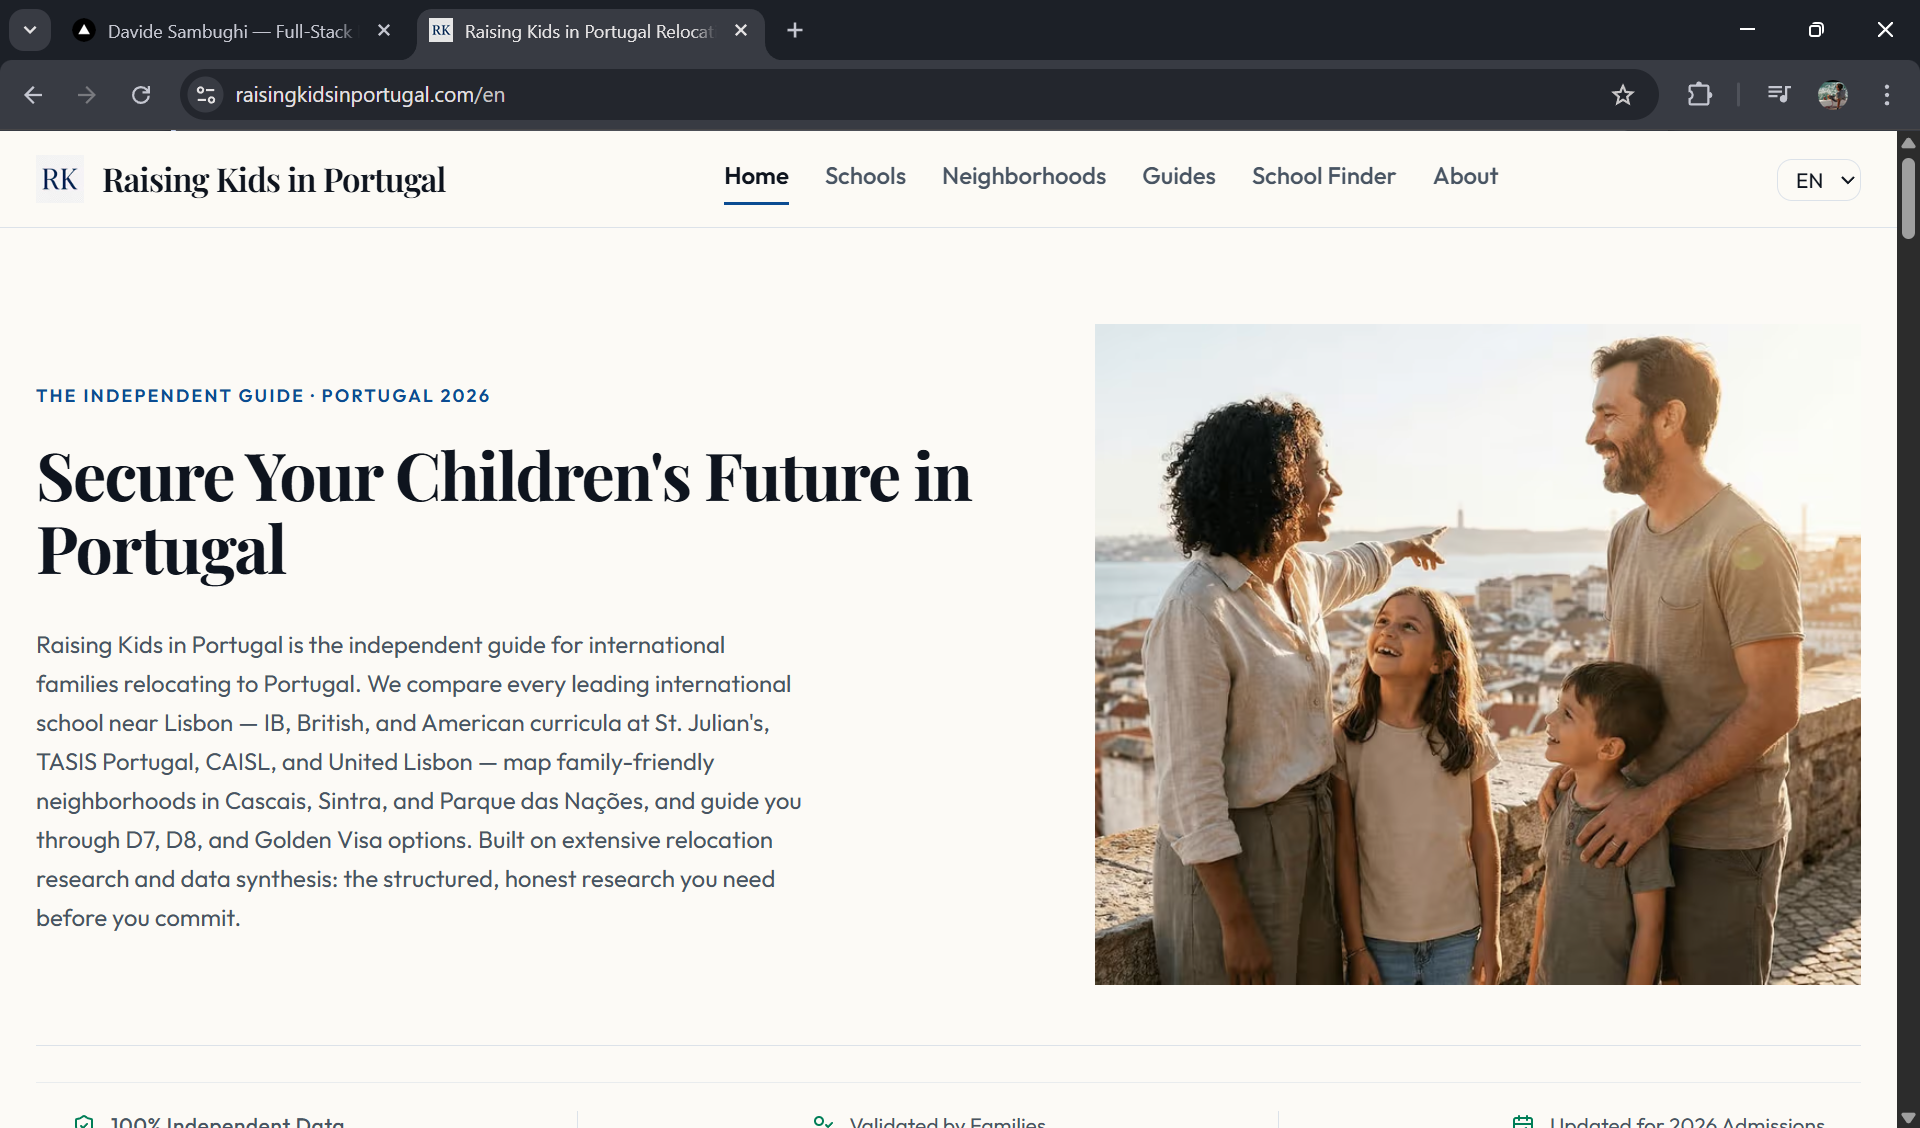
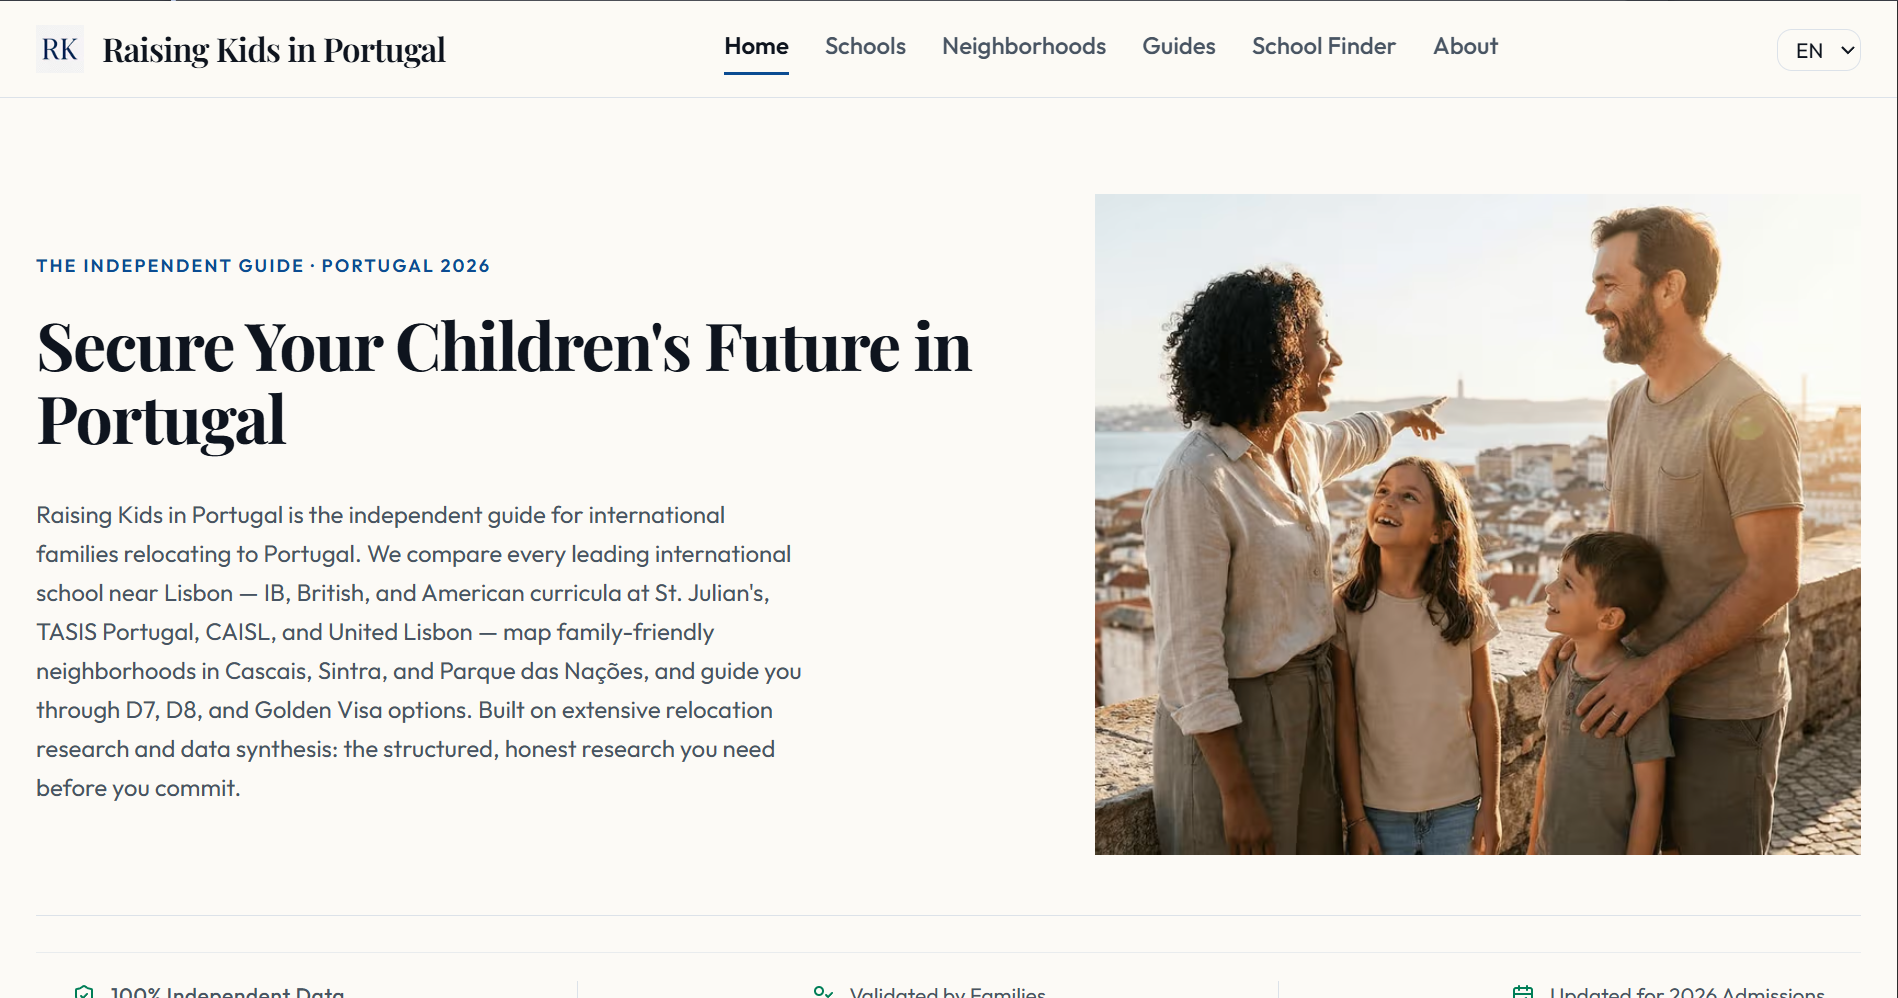
tech stack

diff --git a/src/components/sections/ProjectsSection.tsx b/src/components/sections/ProjectsSection.tsx
@@ -1,18 +1,24 @@
 'use client'
 
-import { useState } from 'react'
+import Image from 'next/image'
+import { useState, KeyboardEvent } from 'react'
 import { motion } from 'framer-motion'
-import { Building2, Globe, Zap, Lock } from 'lucide-react'
+import { Building2, Globe, Zap, Lock, ExternalLink } from 'lucide-react'
+import { buttonVariants } from '@/components/ui/button'
+import { cn } from '@/lib/utils'
 
 const PROJECTS = [
   {
     icon: Building2,
     hue: '276.97',
     title: 'NIF SaaS',
-    slug: 'nif-saas.vercel.app',
+    slug: 'raisingkidsinportugal.com',
+    image: '/images/NIFSaaS.png',
+    url: 'https://raisingkidsinportugal.com/en',
+    alt: 'Screenshot of Raising Kids in Portugal platform',
     description:
       'Automated Italian tax-code (Codice Fiscale) generation platform with multi-tenant auth, usage-based billing, and full i18n support.',
-    tags: ['Next.js 16', 'Supabase', 'Stripe', 'i18n'],
+    tags: ['Next.js 16', 'Supabase', 'i18n'],
     status: 'LIVE' as const,
   },
   {
@@ -20,6 +26,8 @@ const PROJECTS = [
     hue: '293.01',
     title: 'SEO / GEO Engine',
     slug: 'geo-engine.vercel.app',
+    image: null,
+    alt: 'SEO and GEO engine dashboard placeholder',
     description:
       'GEO-optimized content pipeline — entity linking, structured data injection, and programmatic page generation at scale.',
     tags: ['Next.js 16', 'OpenAI', 'Postgres', 'Edge Functions'],
@@ -30,6 +38,8 @@ const PROJECTS = [
     hue: '303.90',
     title: 'Vibe Microsite',
     slug: 'vibe.studio',
+    image: null,
+    alt: 'Vibe Microsite design placeholder',
     description:
       'One-page marketing microsite built with Vibe Coding™ — AI-assisted design iteration, zero-CSS workflow, deployed in under 48 h.',
     tags: ['Next.js 16', 'Framer Motion', 'Tailwind v4'],
@@ -58,20 +68,39 @@ function StatusBadge({ status }: { status: 'LIVE' | 'WIP' }) {
 export function ProjectsSection() {
   const [selectedId, setSelectedId] = useState<string | null>(null)
 
+  const handleAction = (title: string, url?: string) => {
+    if (url) {
+      window.open(url, '_blank', 'noopener,noreferrer')
+    } else {
+      setSelectedId(prev => prev === title ? null : title)
+    }
+  }
+
+  const handleKeyDown = (e: KeyboardEvent, title: string, url?: string) => {
+    if (e.key === 'Enter' || e.key === ' ') {
+      e.preventDefault()
+      handleAction(title, url)
+    }
+  }
+
   return (
     <section id="projects" className="px-12 py-10">
       <div className="flex flex-col gap-4">
-        {PROJECTS.map(({ icon: Icon, hue, title, slug, description, tags, status }) => {
+        {PROJECTS.map(({ icon: Icon, hue, title, slug, description, tags, status, image, alt, url }, index) => {
           const isSelected = selectedId === title
           return (
             <motion.article
               key={title}
-              onClick={() => setSelectedId(isSelected ? null : title)}
+              role="button"
+              tabIndex={0}
+              aria-selected={isSelected}
+              onClick={() => handleAction(title, url)}
+              onKeyDown={(e) => handleKeyDown(e, title, url)}
               whileHover={{ y: -3 }}
               transition={{ type: 'spring', stiffness: 400, damping: 28 }}
               className={[
-                'group rounded-2xl overflow-hidden bg-card cursor-pointer',
-                'border transition-colors duration-300',
+                'group rounded-2xl overflow-hidden bg-card cursor-pointer outline-none',
+                'border transition-all duration-300 focus-visible:ring-2 focus-visible:ring-primary/50',
                 isSelected
                   ? 'border-primary/60 dark:border-electric-400/55 [box-shadow:0_0_0_1px_var(--glow-primary),0_0_36px_var(--glow-primary)]'
                   : 'border-primary/25 dark:border-electric-600/25 [box-shadow:0_0_18px_var(--glow-primary)] hover:border-primary/60 dark:hover:border-electric-400/55 hover:[box-shadow:0_0_0_1px_var(--glow-primary),0_0_36px_var(--glow-primary)]',
@@ -92,7 +121,7 @@ export function ProjectsSection() {
               </div>
 
               {/* ── Browser body ── */}
-              <div className="flex">
+              <div className="flex min-h-[180px]">
                 {/* Left: content */}
                 <div className="flex-1 min-w-0 flex flex-col p-6">
                   <div className="flex items-center gap-2.5 mb-2">
@@ -102,8 +131,9 @@ export function ProjectsSection() {
                     >
                       <Icon size={14} strokeWidth={1.75} style={{ color: `oklch(0.65 0.24 ${hue})` }} />
                     </span>
-                    <h3 className="font-semibold text-base text-foreground leading-tight group-hover:text-primary transition-colors duration-200">
+                    <h3 className="font-semibold text-base text-foreground leading-tight group-hover:text-primary transition-colors duration-200 flex items-center gap-2">
                       {title}
+                      {url && <ExternalLink size={12} className="opacity-0 group-hover:opacity-100 transition-opacity duration-200" />}
                     </h3>
                   </div>
                   <p className="text-sm text-muted-foreground leading-relaxed mb-4">{description}</p>
@@ -111,7 +141,10 @@ export function ProjectsSection() {
                     {tags.map(tag => (
                       <span
                         key={tag}
-                        className="px-2.5 py-0.5 rounded-full text-[11px] font-medium border border-border text-muted-foreground group-hover:border-primary/25 transition-colors duration-200"
+                        className={cn(
+                          buttonVariants({ variant: 'outline', size: 'xs' }),
+                          "rounded-full font-medium border-border text-muted-foreground group-hover:border-primary/25 transition-colors duration-200"
+                        )}
                       >
                         {tag}
                       </span>
@@ -119,17 +152,40 @@ export function ProjectsSection() {
                   </div>
                 </div>
 
-                {/* Right: screenshot placeholder */}
-                <div className="w-[38%] shrink-0 border-l border-border p-3 flex items-center justify-center min-h-[160px]">
-                  {/* ↓ Replace with <Image> when ready */}
-                  <div
-                    className="w-full h-full rounded-lg flex items-center justify-center"
-                    style={{ background: `oklch(0.52 0.24 ${hue} / 0.06)`, border: `1px dashed oklch(0.52 0.24 ${hue} / 0.25)` }}
-                  >
-                    <span className="text-[10px] font-mono text-muted-foreground/30 tracking-widest uppercase">
-                      screenshot
-                    </span>
-                  </div>
+                {/* Right: screenshot */}
+                <div className="w-[38%] shrink-0 border-l border-border relative overflow-hidden bg-muted/5 min-h-[230px]">
+                  {image ? (
+                    <motion.div 
+                      className="relative w-full h-full"
+                      whileHover={{ scale: 1.05 }}
+                      transition={{ duration: 0.4, ease: [0.4, 0, 0.2, 1] }}
+                    >
+                      <Image
+                        src={image}
+                        alt={alt || title}
+                        fill
+                        className="object-cover object-center transition-opacity duration-300"
+                        sizes="(max-width: 768px) 100vw, 33vw"
+                        priority={index === 0}
+                      />
+                      {/* ── Overlay gradient per profondità ── */}
+                      <div className="absolute inset-0 bg-linear-to-t from-background/10 to-transparent pointer-events-none" />
+                    </motion.div>
+                  ) : (
+                    <div
+                      className="w-full h-full flex items-center justify-center p-3"
+                      style={{ background: `oklch(0.52 0.24 ${hue} / 0.06)` }}
+                    >
+                      <div 
+                        className="w-full h-full rounded-lg border-2 border-dashed flex items-center justify-center"
+                        style={{ borderColor: `oklch(0.52 0.24 ${hue} / 0.25)` }}
+                      >
+                        <span className="text-[10px] font-mono text-muted-foreground/30 tracking-widest uppercase">
+                          screenshot
+                        </span>
+                      </div>
+                    </div>
+                  )}
                 </div>
               </div>
             </motion.article>

diff --git a/src/components/sections/StackSection.tsx b/src/components/sections/StackSection.tsx
@@ -1,0 +1,75 @@
+'use client'
+
+import { motion } from 'framer-motion'
+import { cn } from '@/lib/utils'
+
+const STACK_DATA = [
+  {
+    category: 'CORE',
+    techs: ['Next.js 16', 'TypeScript', 'React 19'],
+  },
+  {
+    category: 'STYLING',
+    techs: ['Tailwind CSS', 'shadcn/ui', 'Framer Motion'],
+  },
+  {
+    category: 'BACKEND',
+    techs: ['Supabase', 'Vercel', 'Edge'],
+  },
+  {
+    category: 'AUTOMATION',
+    techs: ['n8n', 'Resend', 'Stripe'],
+  },
+  {
+    category: 'SEO / GEO',
+    techs: ['Schema.org', 'llms.txt', 'i18n'],
+  },
+  {
+    category: 'METHODOLOGY',
+    techs: ['Vibe Coding™', 'AI-First'],
+  },
+]
+
+export function StackSection() {
+  return (
+    <section id="stack" className="px-12 py-10" aria-labelledby="stack-title">
+      {/* Hidden heading for SEO/Accessibility */}
+      <h2 id="stack-title" className="sr-only">Tech Stack & Methodology</h2>
+      
+      <div className="grid grid-cols-1 md:grid-cols-2 lg:grid-cols-3 gap-4">
+        {STACK_DATA.map((item, idx) => (
+          <motion.article
+            key={item.category}
+            initial={{ opacity: 0, y: 12 }}
+            whileInView={{ opacity: 1, y: 0 }}
+            viewport={{ once: true, margin: "-20px" }}
+            transition={{ duration: 0.4, delay: idx * 0.06, ease: [0.4, 0, 0.2, 1] }}
+            className={cn(
+              "group p-6 rounded-xl border border-border bg-card/40 transition-all duration-300",
+              "hover:border-primary/30 hover:bg-card hover:shadow-[0_0_24px_-12px_var(--glow-primary)]"
+            )}
+          >
+            <h3 className="text-[10px] font-mono tracking-[0.2em] text-muted-foreground/40 mb-5 uppercase">
+              {item.category}
+            </h3>
+
+            <div className="flex flex-wrap gap-2">
+              {item.techs.map((tech) => (
+                <span
+                  key={tech}
+                  className={cn(
+                    "px-2.5 py-1 rounded-md text-[11px] font-medium tracking-tight transition-all duration-200",
+                    "bg-muted/40 text-muted-foreground border border-transparent",
+                    "group-hover:text-foreground group-hover:border-border group-hover:bg-muted"
+                  )}
+                >
+                  {tech}
+                </span>
+              ))}
+            </div>
+          </motion.article>
+        ))}
+      </div>
+    </section>
+  )
+}

diff --git a/src/app/page.tsx b/src/app/page.tsx
@@ -1,5 +1,6 @@
 import { HeroSection } from '@/components/sections/HeroSection'
 import { ProjectsSection } from '@/components/sections/ProjectsSection'
+import { StackSection } from '@/components/sections/StackSection'
 import { SectionDivider } from '@/components/ui/SectionDivider'
 
 export default function Home() {
@@ -8,7 +9,10 @@ export default function Home() {
       <HeroSection />
       <SectionDivider label="Selected Work" />
       <ProjectsSection />
-      <section id="stack"    className="min-h-screen flex items-center justify-center text-2xl text-neutral-400">Stack</section>
+      
+      <SectionDivider label="Tech Stack" />
+      <StackSection />
+
       <section id="about"    className="min-h-screen flex items-center justify-center text-2xl text-neutral-400">About</section>
       <section id="contact"  className="min-h-screen flex items-center justify-center text-2xl text-neutral-400">Contact</section>
     </main>
